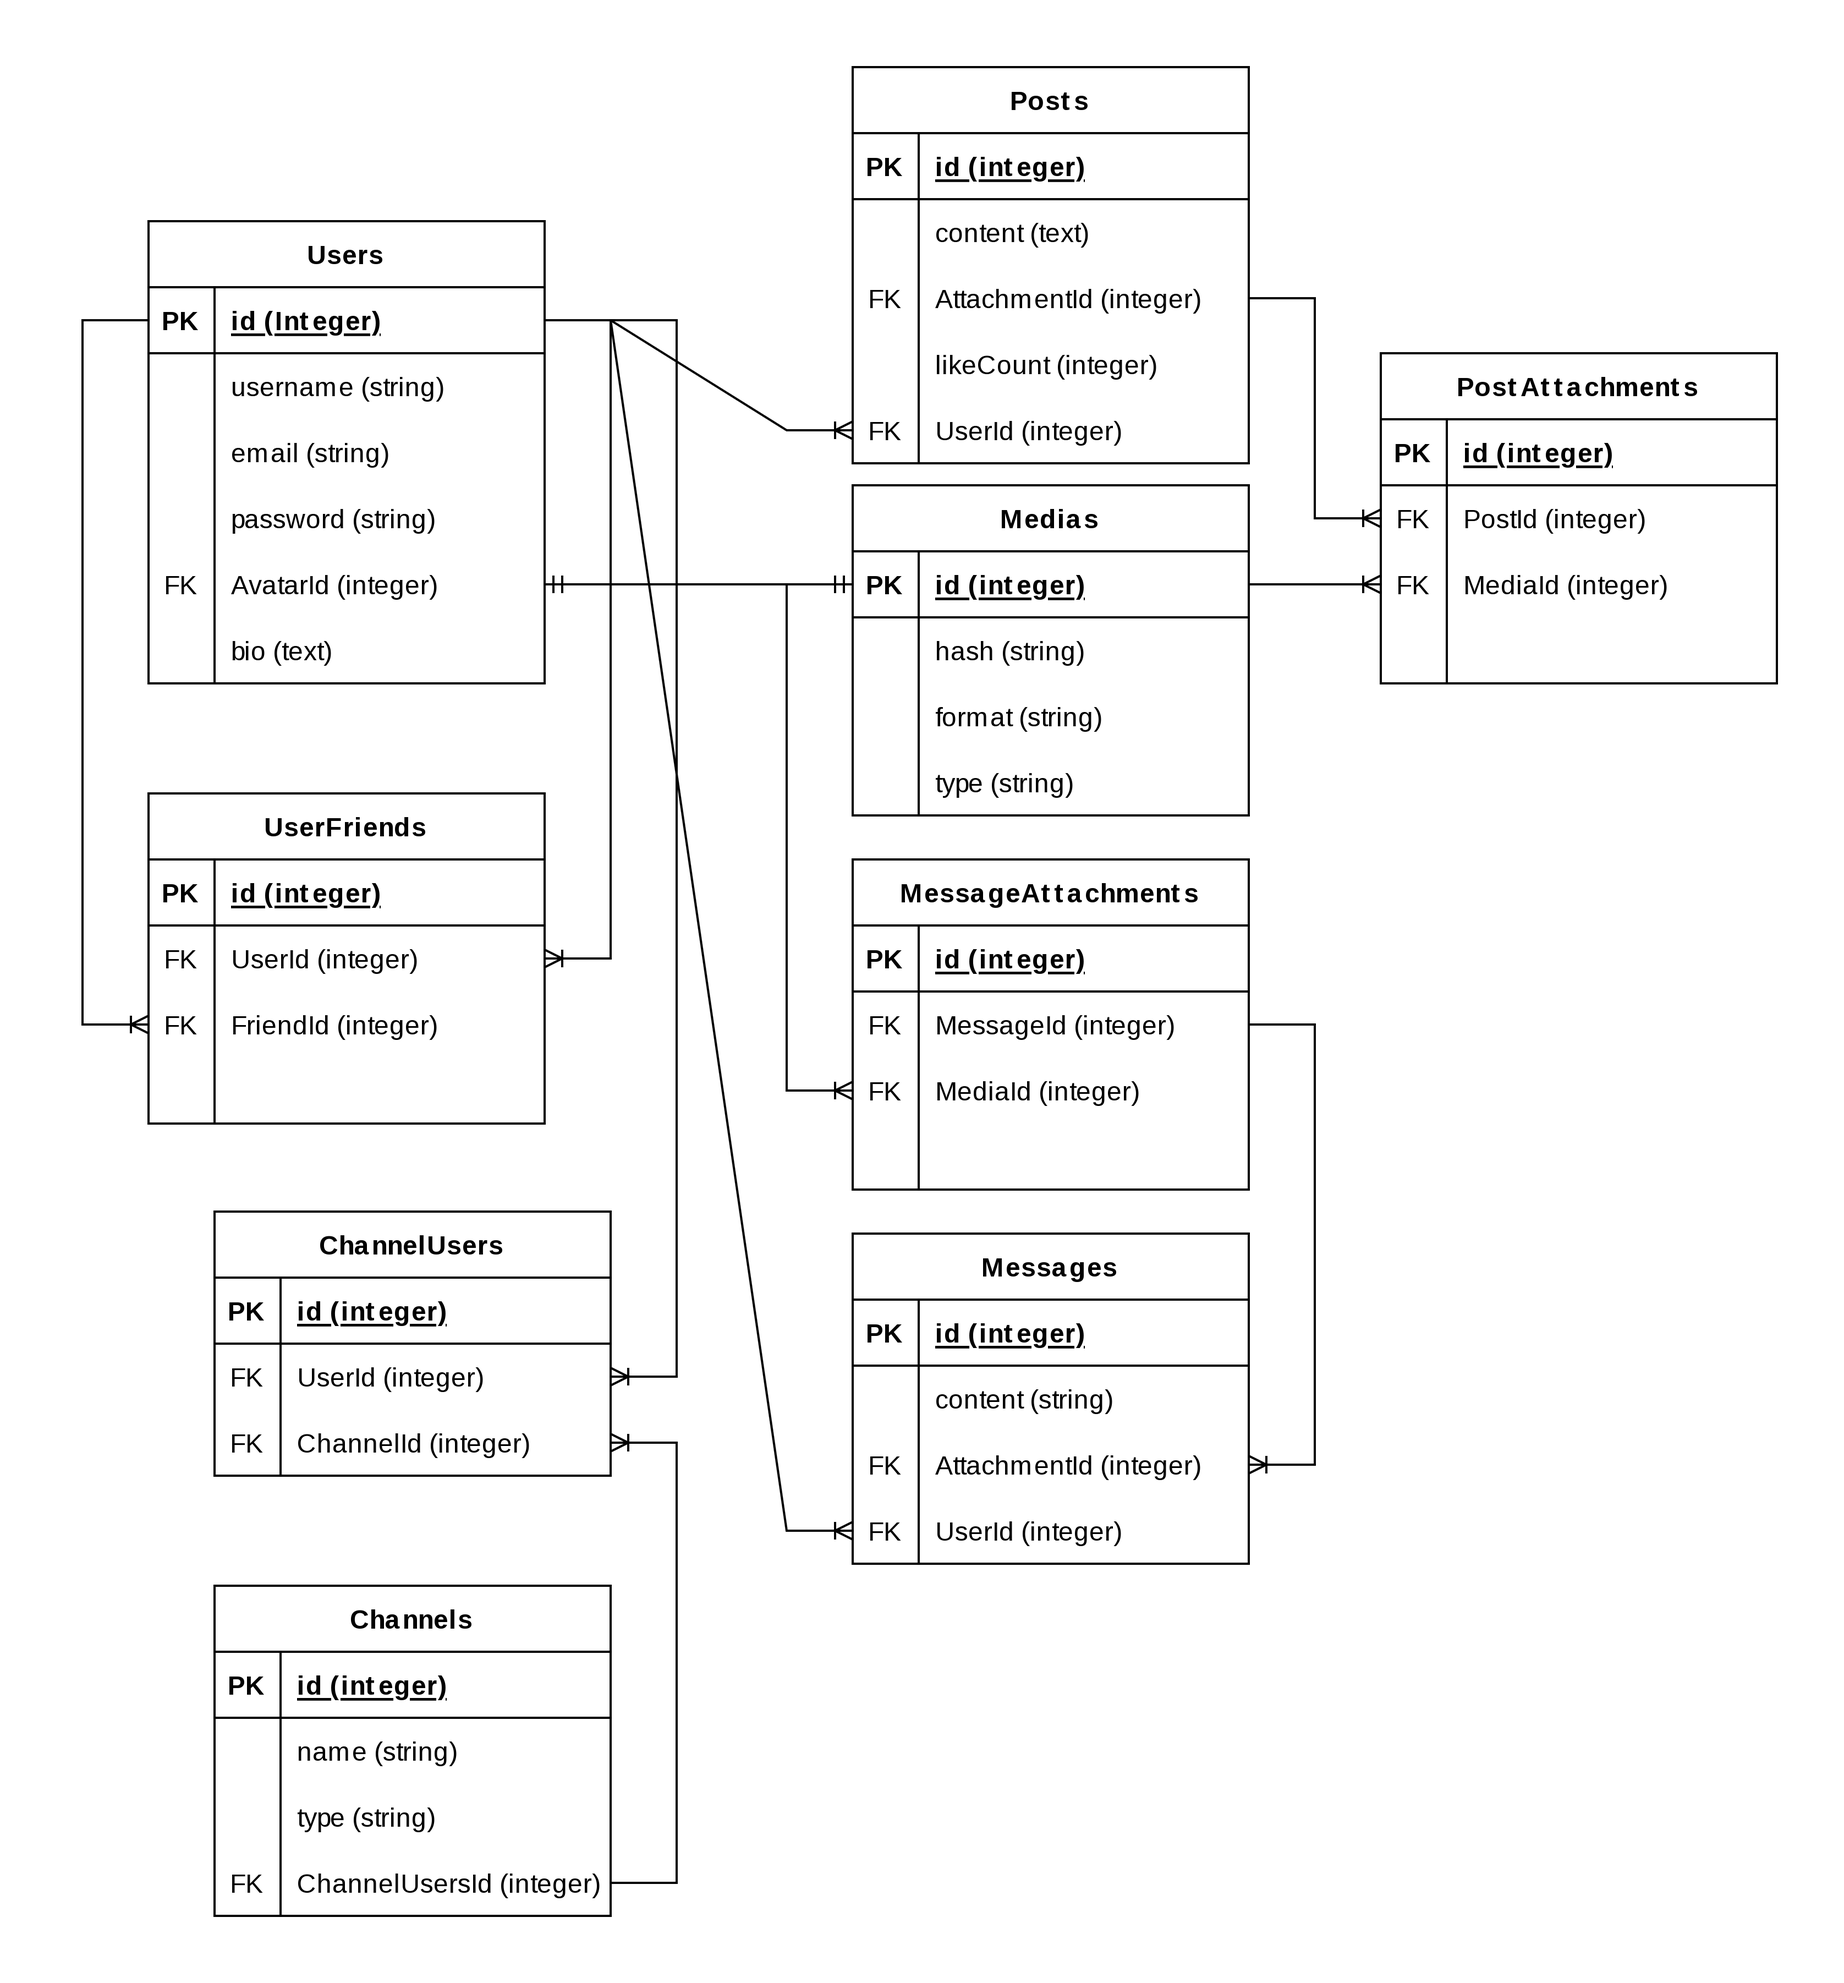
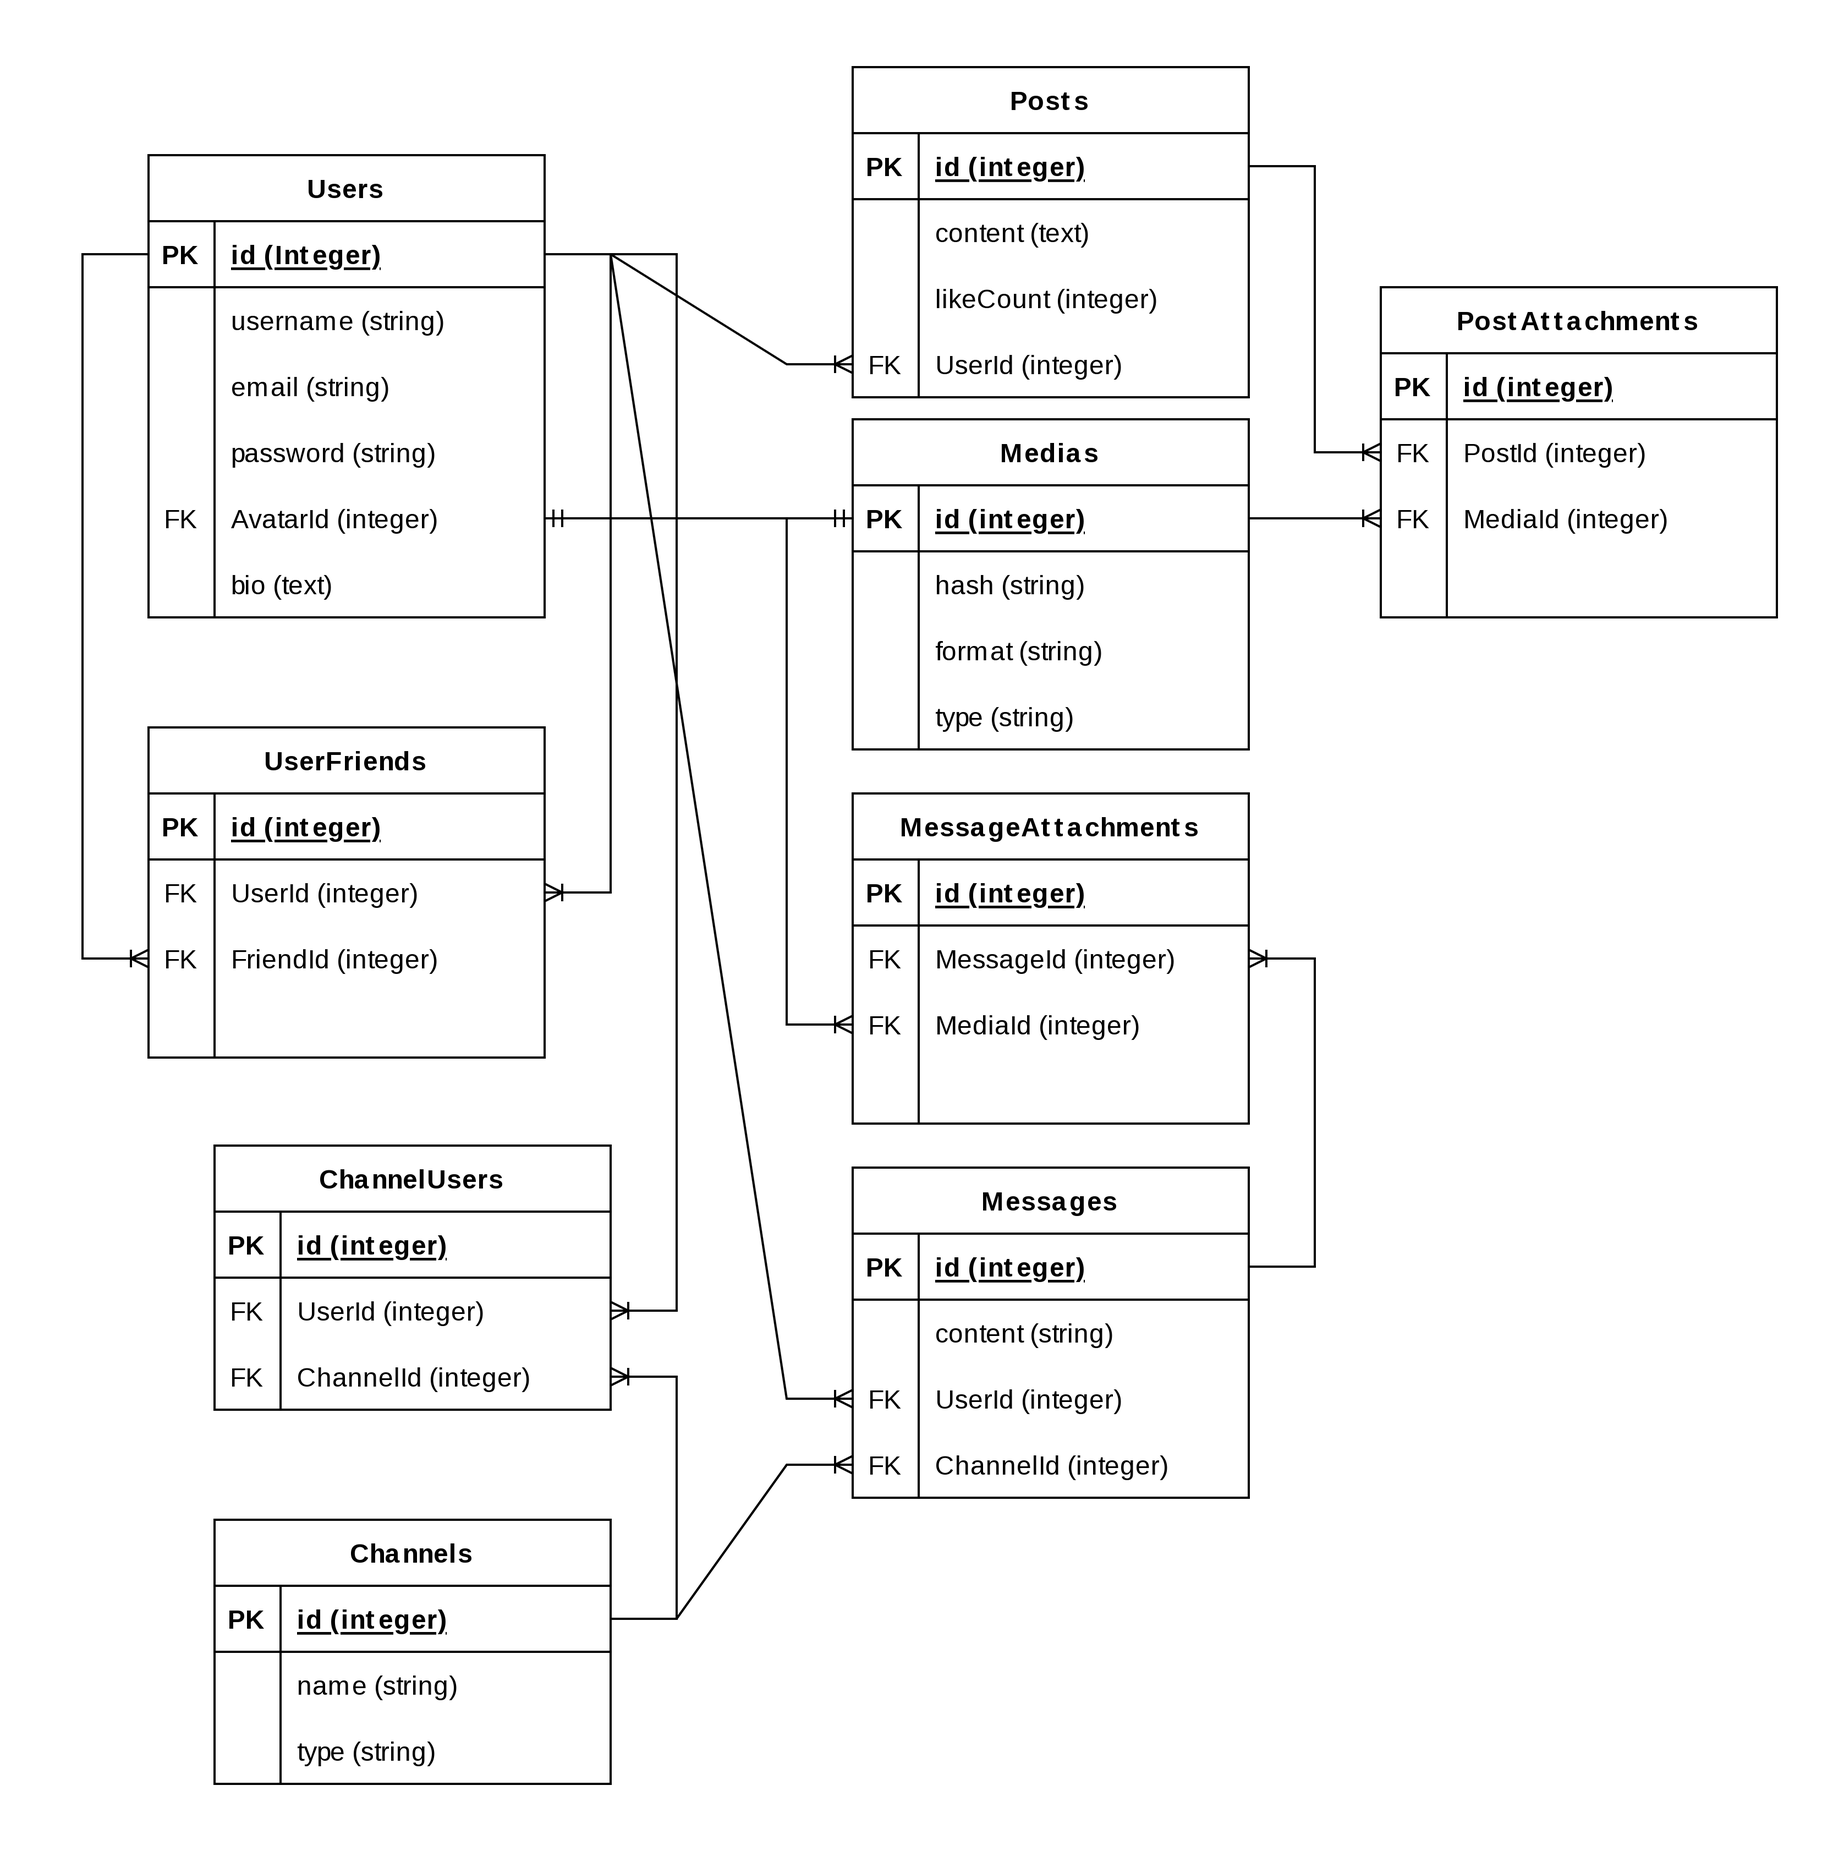
add table Posts and PostAttachments, fix schema

diff --git a/rest/models/postattachment.js b/rest/models/postattachment.js
@@ -3,7 +3,7 @@ const {
   Model
 } = require('sequelize');
 module.exports = (sequelize, DataTypes) => {
-  class Media extends Model {
+  class PostAttachment extends Model {
     /**
      * Helper method for defining associations.
      * This method is not a part of Sequelize lifecycle.
@@ -11,43 +11,35 @@ module.exports = (sequelize, DataTypes) => {
      */
     static associate(models) {
       // define association here
-      Media.belongsTo(models.User, {
-	foreignKey: "AvatarId",
+      PostAttachment.belongsTo(models.Post, {
+	foreignKey: "PostId",
       });
 
-      Media.hasMany(models.PostAttachment, {
+      PostAttachment.belongsTo(models.Media, {
 	foreignKey: "MediaId",
       });
     }
   }
-  Media.init({
-    hash: {
-      type: DataTypes.STRING,
+  PostAttachment.init({
+    PostId: {
+      type: DataTypes.INTEGER,
       allowNull: false,
-      validate: {
-	notNull: true,
-	notEmpty: true,
+      references: {
+	model: "Posts",
+	key: "id",
       },
     },
-    format: {
-      type: DataTypes.STRING,
+    MediaId: {
+      type: DataTypes.INTEGER,
       allowNull: false,
-      validate: {
-	notNull: true,
-	notEmpty: true,
-      },
-    },
-    type: {
-      type: DataTypes.STRING,
-      allowNull: false,
-      validate: {
-	notNull: true,
-	notEmpty: true,
+      references: {
+	model: "Media",
+	key: "id",
       },
     },
   }, {
     sequelize,
-    modelName: 'Media',
+    modelName: 'PostAttachment',
   });
-  return Media;
+  return PostAttachment;
 };

diff --git a/rest/models/post.js b/rest/models/post.js
@@ -1,0 +1,53 @@
+'use strict';
+const {
+  Model
+} = require('sequelize');
+module.exports = (sequelize, DataTypes) => {
+  class Post extends Model {
+    /**
+     * Helper method for defining associations.
+     * This method is not a part of Sequelize lifecycle.
+     * The `models/index` file will call this method automatically.
+     */
+    static associate(models) {
+      // define association here
+      Post.belongsTo(models.User, {
+	foreignKey: "UserId",
+      });
+
+      Post.hasMany(models.PostAttachment, {
+	foreignKey: "PostId",
+      });
+    }
+  }
+  Post.init({
+    content: {
+        type: DataTypes.TEXT,
+	allowNull: false,
+	validate: {
+	  notNull: {
+	    msg: "Content can't be empty",
+	  },
+	  notEmpty: {
+	    msg: "Content can't be empty",
+	  },
+	}
+      },
+    likeCount: {
+        type: DataTypes.INTEGER,
+	default: 0,
+      },
+    UserId: {
+        type: DataTypes.INTEGER,
+	allowNull: false,
+	references: {
+	  model: "Users",
+	  key: "id",
+	},
+      },
+  }, {
+    sequelize,
+    modelName: 'Post',
+  });
+  return Post;
+};

diff --git a/rest/migrations/20221206043146-create-post-attachment.js b/rest/migrations/20221206043146-create-post-attachment.js
@@ -1,0 +1,41 @@
+'use strict';
+/** @type {import('sequelize-cli').Migration} */
+module.exports = {
+  async up(queryInterface, Sequelize) {
+    await queryInterface.createTable('PostAttachments', {
+      id: {
+        allowNull: false,
+        autoIncrement: true,
+        primaryKey: true,
+        type: Sequelize.INTEGER
+      },
+      PostId: {
+        type: Sequelize.INTEGER,
+	allowNull: false,
+	references: {
+	  model: "Posts",
+	  key: "id",
+	},
+      },
+      MediaId: {
+        type: Sequelize.INTEGER,
+	allowNull: false,
+	references: {
+	  model: "Media",
+	  key: "id",
+	},
+      },
+      createdAt: {
+        allowNull: false,
+        type: Sequelize.DATE
+      },
+      updatedAt: {
+        allowNull: false,
+        type: Sequelize.DATE
+      }
+    });
+  },
+  async down(queryInterface, Sequelize) {
+    await queryInterface.dropTable('PostAttachments');
+  }
+};

diff --git a/rest/migrations/20221206043129-create-post.js b/rest/migrations/20221206043129-create-post.js
@@ -1,0 +1,41 @@
+'use strict';
+/** @type {import('sequelize-cli').Migration} */
+module.exports = {
+  async up(queryInterface, Sequelize) {
+    await queryInterface.createTable('Posts', {
+      id: {
+        allowNull: false,
+        autoIncrement: true,
+        primaryKey: true,
+        type: Sequelize.INTEGER
+      },
+      content: {
+        type: Sequelize.TEXT,
+	allowNull: false,
+      },
+      likeCount: {
+        type: Sequelize.INTEGER,
+	default: 0,
+      },
+      UserId: {
+        type: Sequelize.INTEGER,
+	allowNull: false,
+	references: {
+	  model: "Users",
+	  key: "id",
+	},
+      },
+      createdAt: {
+        allowNull: false,
+        type: Sequelize.DATE
+      },
+      updatedAt: {
+        allowNull: false,
+        type: Sequelize.DATE
+      }
+    });
+  },
+  async down(queryInterface, Sequelize) {
+    await queryInterface.dropTable('Posts');
+  }
+};

diff --git a/rest/models/user.js b/rest/models/user.js
@@ -18,6 +18,10 @@ module.exports = (sequelize, DataTypes) => {
 	foreignKey: "AvatarId",
       });
 
+      User.hasMany(models.Post, {
+	foreignKey: "UserId",
+      });
+
       User.hasMany(models.UserFriend, {
 	foreignKey: "UserId",
 	as: "users",
